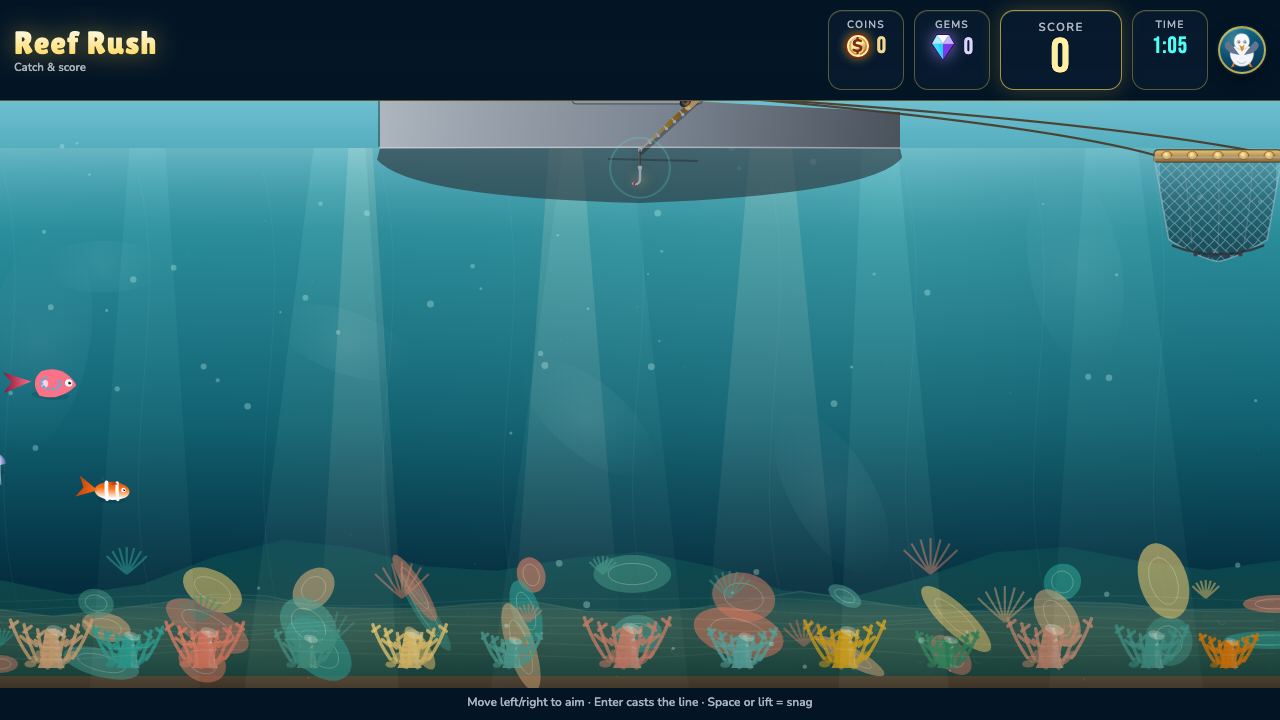
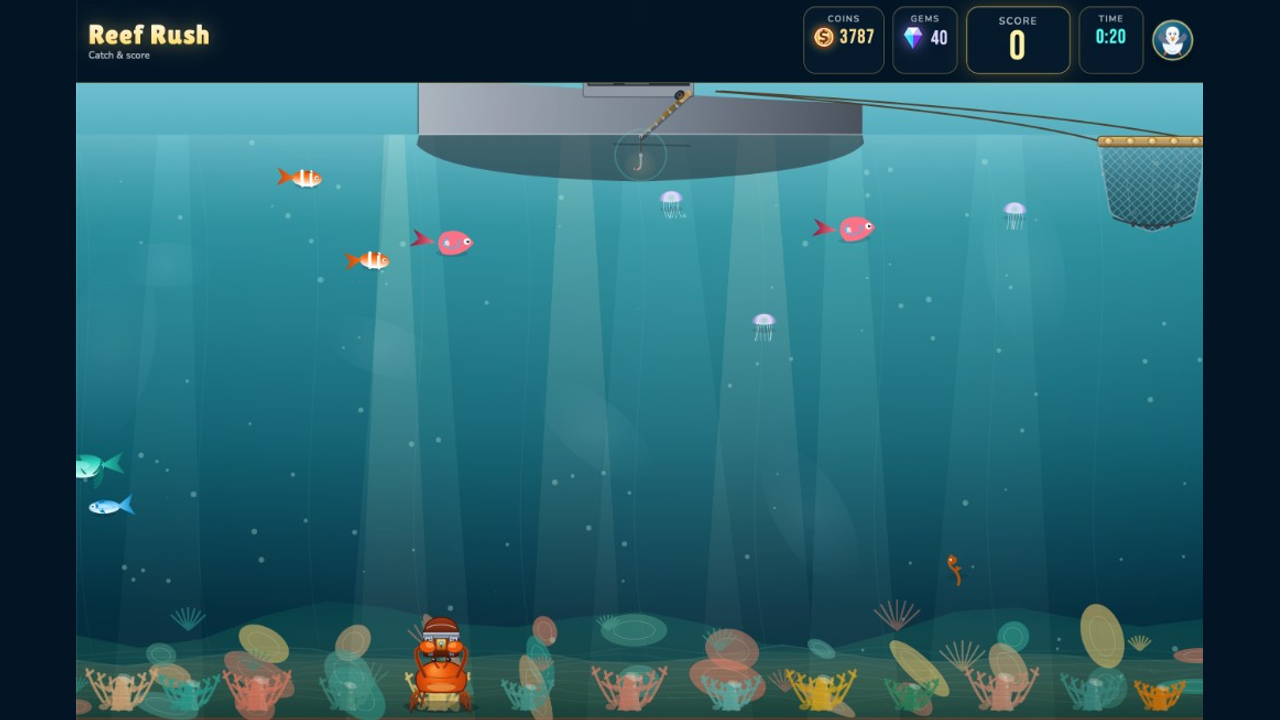
Use the player's Great Barrier Reef screenshot as the Google preview image.

diff --git a/index.html b/index.html
@@ -18,14 +18,14 @@
     <meta property="og:title" content="Reef Rush — World Adventures Fishing Game" />
     <meta property="og:description" content="Fish famous reefs in World Adventures, take on Adventure Mode, collect sea pals, and climb the boards — free in your browser." />
     <meta property="og:url" content="https://reef-rush.com/" />
-    <meta property="og:image" content="https://reef-rush.com/assets/og-playing.png?v=gbr-real" />
+    <meta property="og:image" content="https://reef-rush.com/assets/og-playing.png?v=user-gbr" />
     <meta property="og:image:width" content="1280" />
     <meta property="og:image:height" content="720" />
-    <meta property="og:image:alt" content="Reef Rush — fishing the Great Barrier Reef in World Adventures" />
+    <meta property="og:image:alt" content="Reef Rush — Great Barrier Reef gameplay with crab treasure chest" />
     <meta name="twitter:card" content="summary_large_image" />
     <meta name="twitter:title" content="Reef Rush — World Adventures Fishing Game" />
     <meta name="twitter:description" content="Fish famous reefs in World Adventures, take on Adventure Mode, collect sea pals, and climb the boards — free in your browser." />
-    <meta name="twitter:image" content="https://reef-rush.com/assets/og-playing.png?v=gbr-real" />
+    <meta name="twitter:image" content="https://reef-rush.com/assets/og-playing.png?v=user-gbr" />
     <link rel="preconnect" href="https://fonts.googleapis.com" />
     <link rel="preconnect" href="https://fonts.gstatic.com" crossorigin />
     <link
